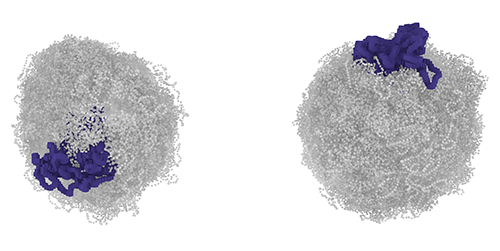
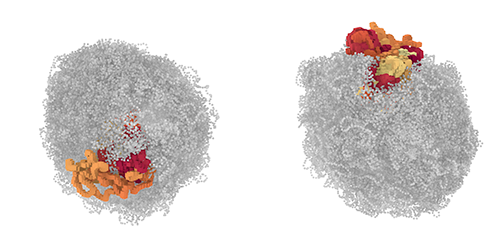
feat(editor): Tan example highlights using sequential color

Changed region(s): [[0.57, 0.0837, 0.99, 0.8924], [0.03, 0.1394, 0.45, 0.8924]]

diff --git a/src/tracks/spatial-track/spatial-track.ts b/src/tracks/spatial-track/spatial-track.ts
@@ -191,15 +191,15 @@ function handleColorField(color?: ChannelValue | Color | string, arrowIpc: Uint8
         } else if (color.type === 'quantitative') {
             const values = fetchValuesFromColumn(color.field, arrowIpc);
             console.log('values', values);
-            const [minVal, maxVal] = findMinAndMaxOfColumn(values);
+            const [minVal, maxVal] = color.domain ? [color.domain[0], color.domain[1]] : findMinAndMaxOfColumn(values);
             console.log(`minVal = ${minVal}, maxVal = ${maxVal}`);
+            const colScale = color.range ?? 'viridis';
             const colorConfig = {
                 //values: values,
                 values: [...values],
                 min: minVal,
                 max: maxVal,
-                colorScale: 'viridis'
-                //colorScale: "greens",
+                colorScale: colScale
             };
             return colorConfig;
         } else {

diff --git a/editor/example/json-spec/spatial-layout.ts b/editor/example/json-spec/spatial-layout.ts
@@ -246,7 +246,10 @@ export const EX_SPEC_SPATIAL_TAN_COMP: GoslingSpec = {
                 },
                 {
                     color: {
-                        value: 'darkslateblue'
+                        field: 'coord',
+                        type: 'quantitative',
+                        domain: [900000, 249200000],
+                        range: "spectral",
                     },
                     size: {
                         value: 0.02,
@@ -287,7 +290,10 @@ export const EX_SPEC_SPATIAL_TAN_COMP: GoslingSpec = {
                 },
                 {
                     color: {
-                        value: 'darkslateblue'
+                        field: 'coord',
+                        type: 'quantitative',
+                        domain: [900000, 249300000],
+                        range: "spectral",
                     },
                     size: {
                         value: 0.02,
